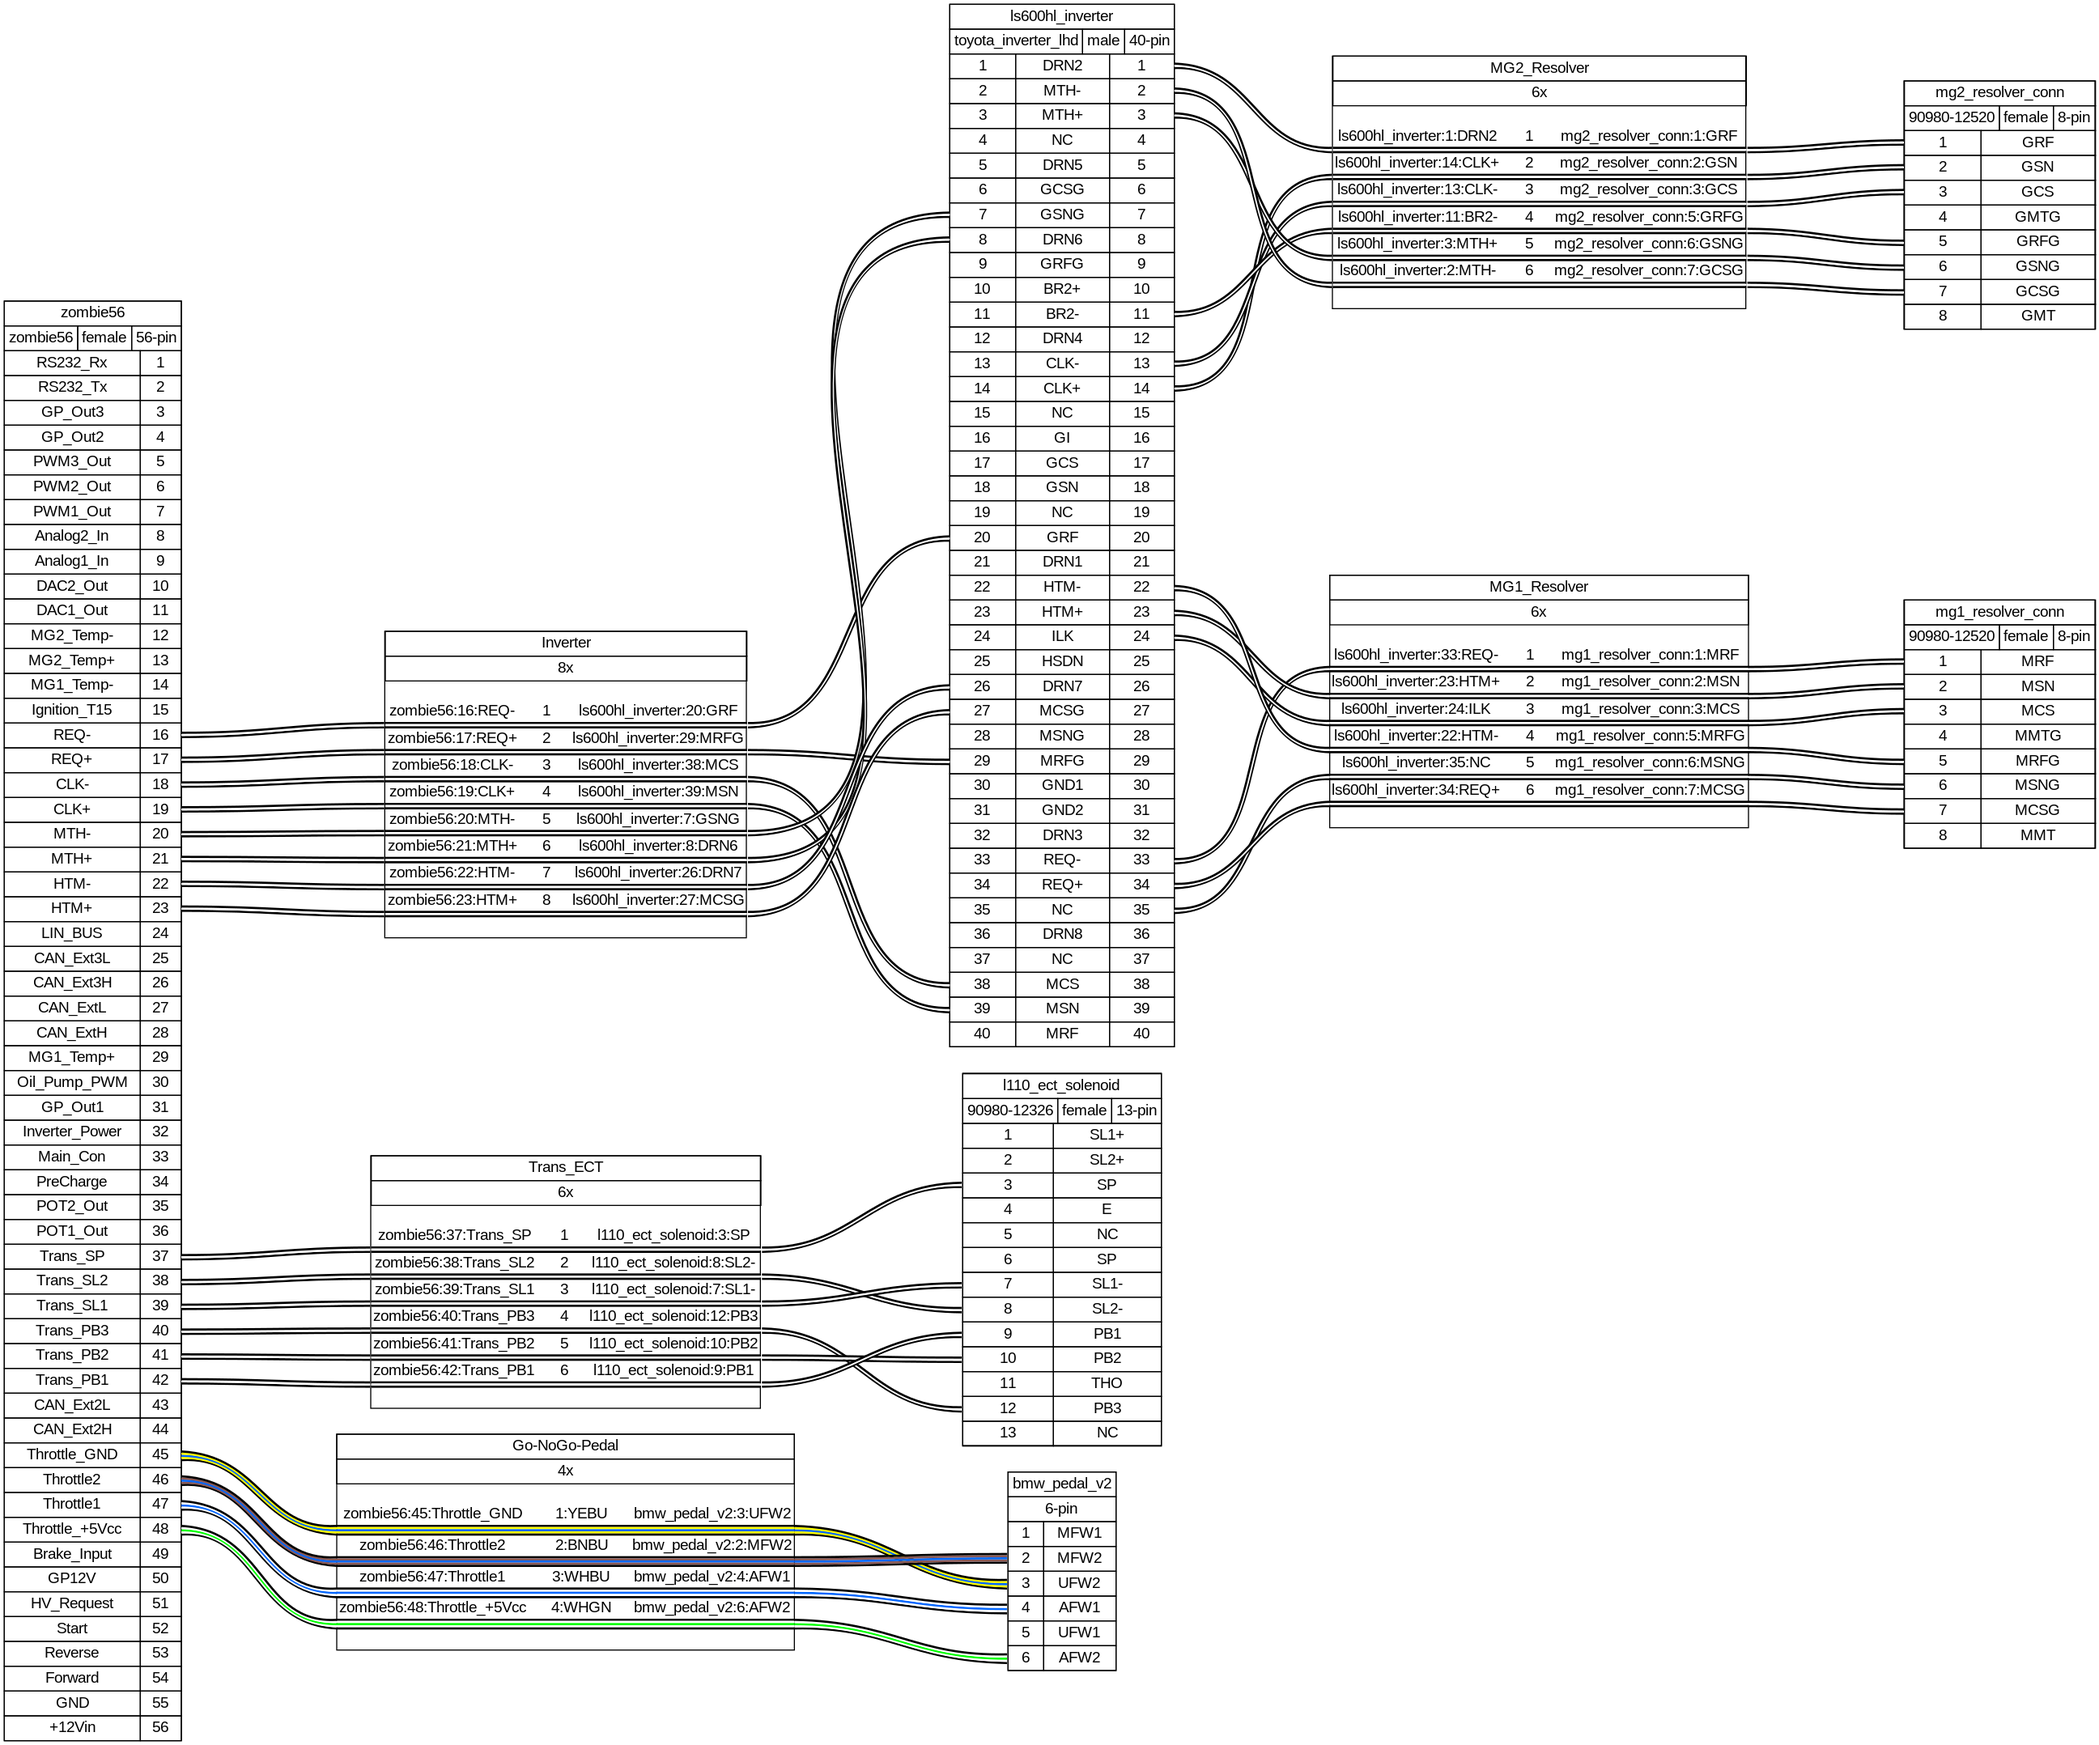
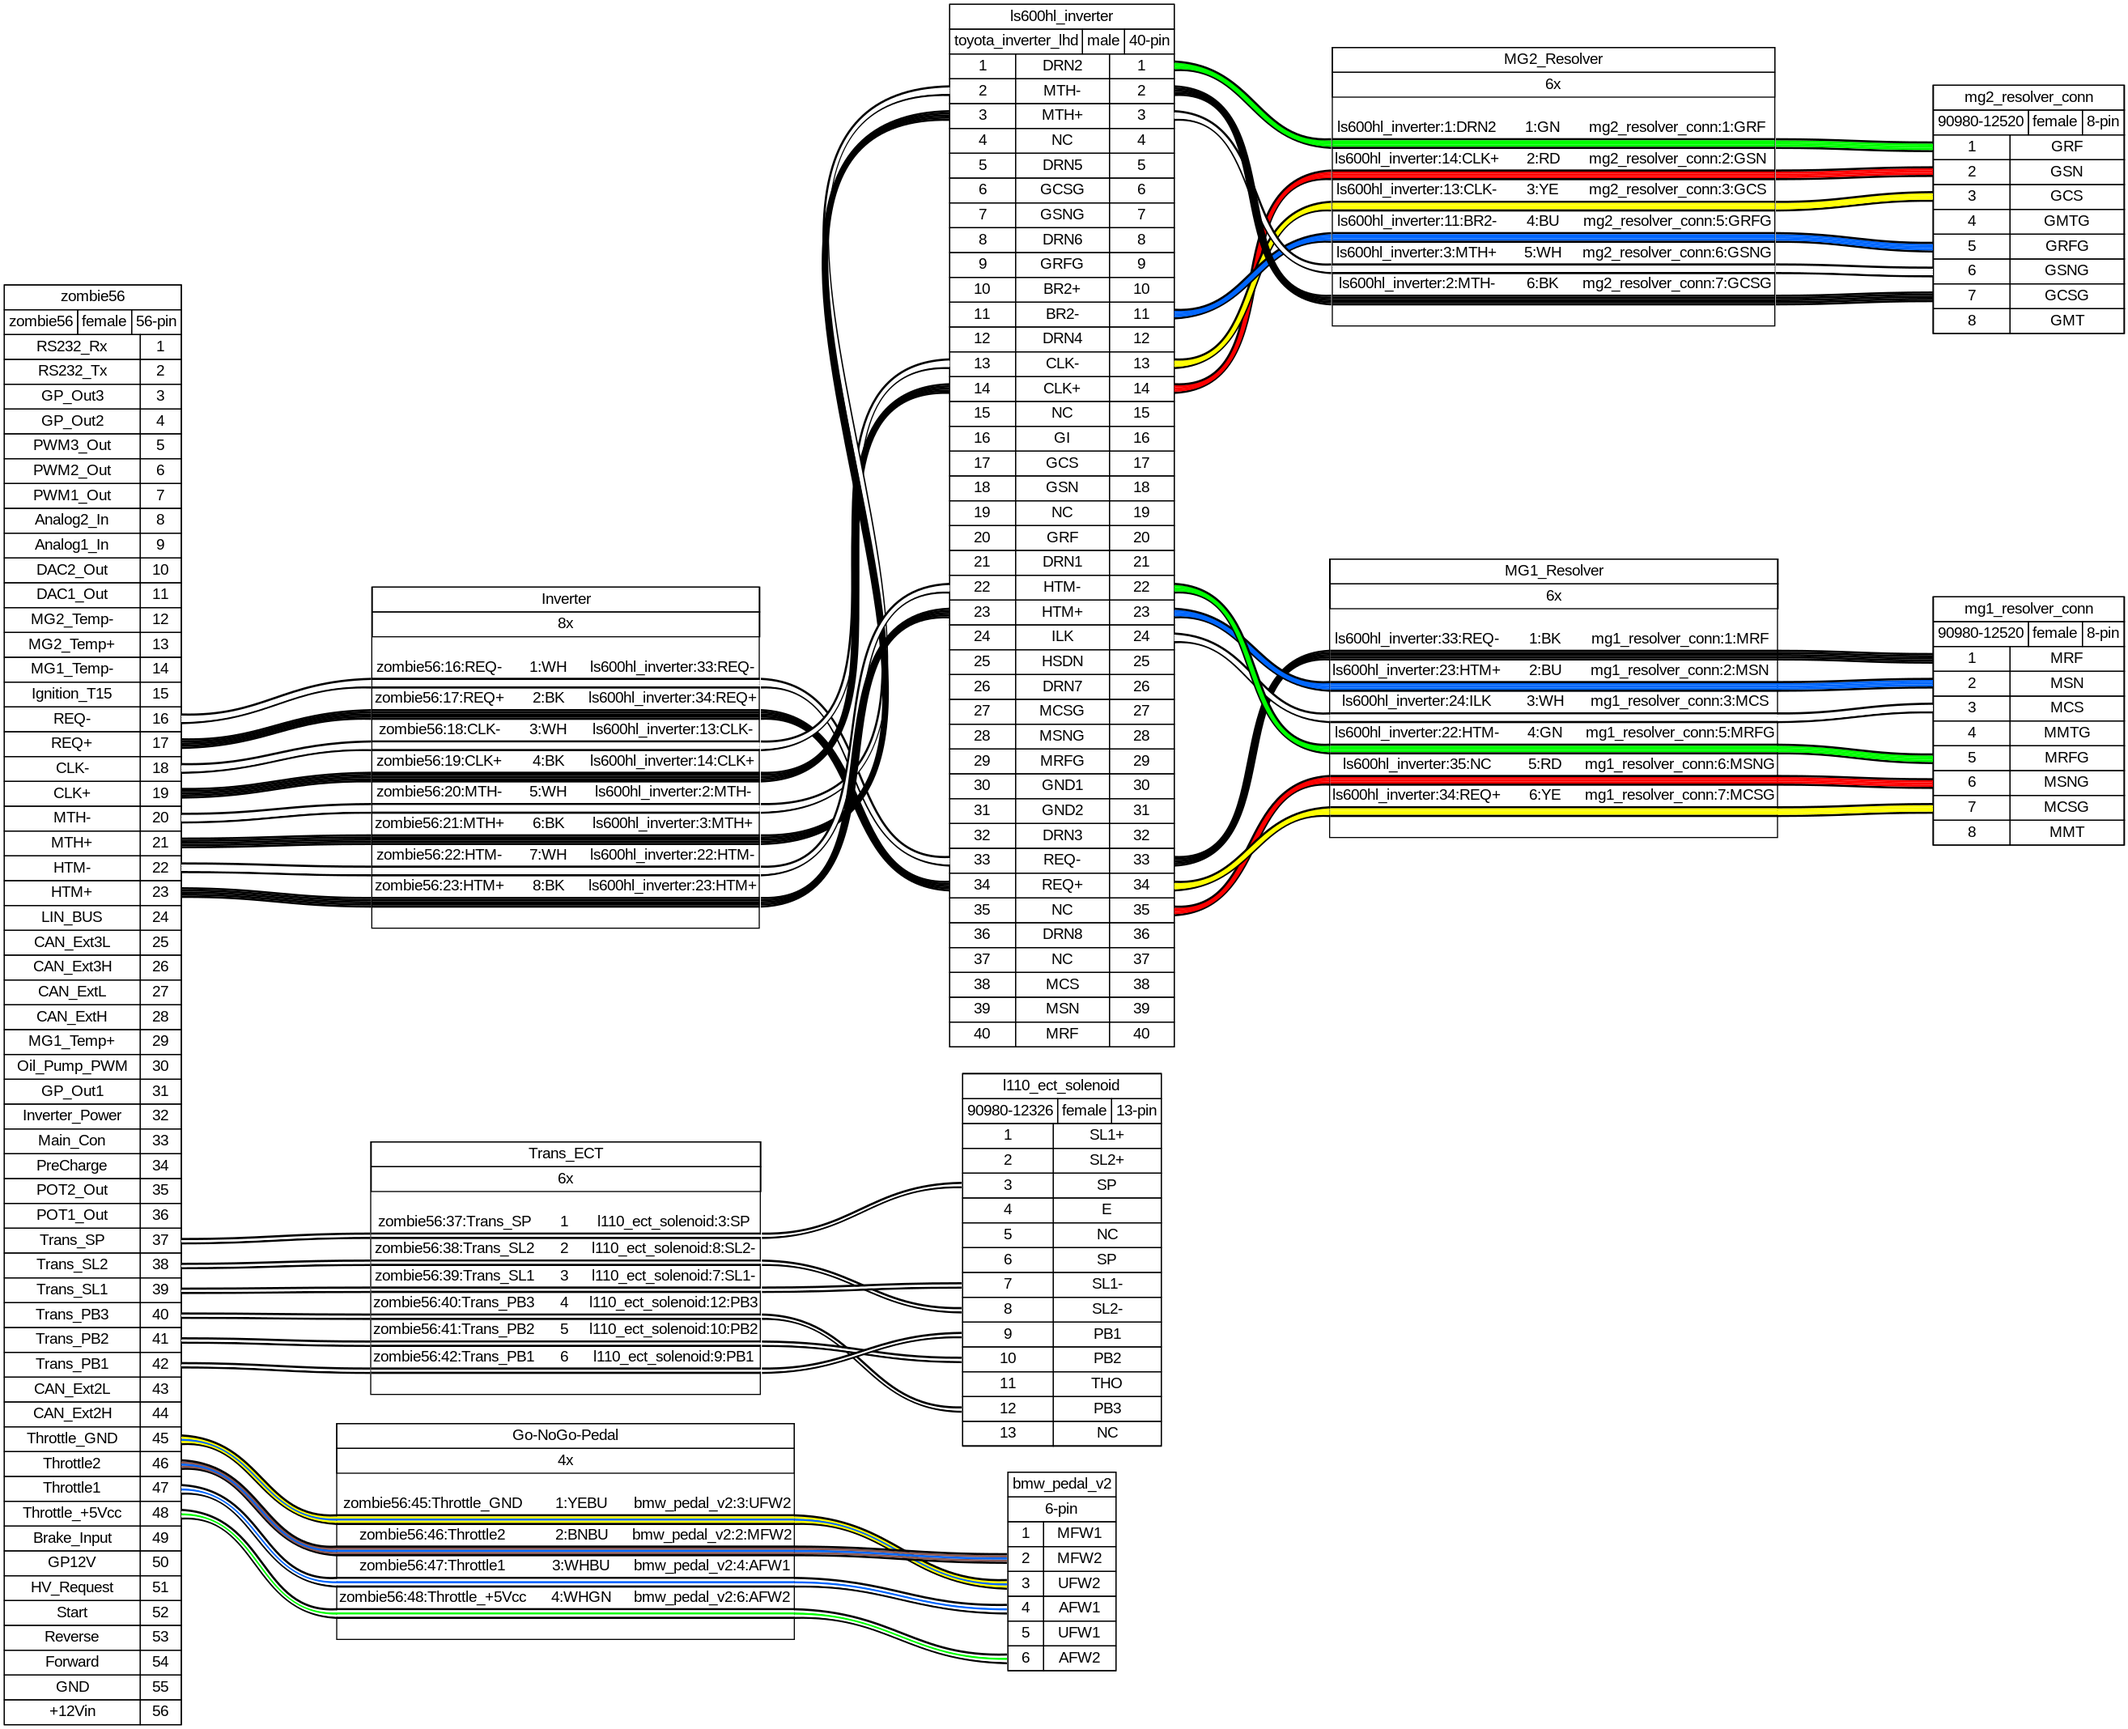
colorize the inverter/resolver cables

Changed region(s): [[0.0, 0.0, 0.9996, 1.0]]

diff --git a/wiring/zombie.cpp b/wiring/zombie.cpp
@@ -9,9 +9,15 @@ connectors:
 #include "connectors/l110_vehicle_speed_sensor.yml"
 #include "connectors/bmw_pedal_v2.yml"
 
+// Inverter connector colors
+//    colors: [ BN, WH, BK, WH, BN, BK, WH, BN, BU, BK,
+//              BK, BN, WH, BK, WH, BK, YE, RD, WH, GN,
+//              BN, WH, BK, WH, BK, BN, YE, RD, GN, WHBK,
+//              WHBK, BN, WH, BK, BK, BN, WH, WH, BU, BK ]
 cables:
   Inverter:
     wirecount: 8
+    colors: [ WH, BK, WH, BK, WH, BK, WH, BK ]
 
   Trans_ECT:
     wirecount: 6
@@ -23,16 +29,18 @@ cables:
 
   MG1_Resolver:
     wirecount: 6
+    colors: [ BK, BU, WH, GN, RD, YE ]
 
   MG2_Resolver:
     wirecount: 6
+    colors: [ GN, RD, YE, BU, WH, BK ]
 
 
 connections:
   -
     - zombie56: [ 16-23 ]
     - Inverter: [1-8]
-    - ls600hl_inverter: [20, 29, 38, 39, 7, 8, 26, 27 ]
+    - ls600hl_inverter: [33, 34, 13, 14, 2, 3, 22, 23 ]
   -
     - zombie56: [ 37-42 ]
     - Trans_ECT: [1-6]
